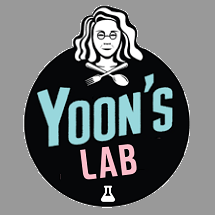
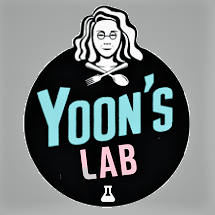
commit

diff --git a/_sass/_variables/base.scss b/_sass/_variables/base.scss
@@ -272,7 +272,7 @@ $sidebar-nav-hover-color              : $whitesmoke;
 $sidebar-highlight                    : $blue-bright;
 
 $site-author-image-padding            : 2px;
-$site-author-image-width              : 180px;
+$site-author-image-width              : 150px;
 $site-author-image-height             : auto;
 $site-author-image-border-width       : 2px;
 $site-author-image-border-color       : $black-dim;

diff --git a/_sass/_variables/Pisces.scss b/_sass/_variables/Pisces.scss
@@ -24,7 +24,7 @@ $sidebar-offset-float             : if(type-of(jekyll-config('sidebar.offset_flo
 $sidebar-nav-hover-color          : $orange;
 $sidebar-highlight                : $orange;
 
-$site-author-image-width          : 180px;
+$site-author-image-width          : 150px;
 $site-author-image-border-width   : 1px;
 $site-author-image-border-color   : $gainsboro;
 
